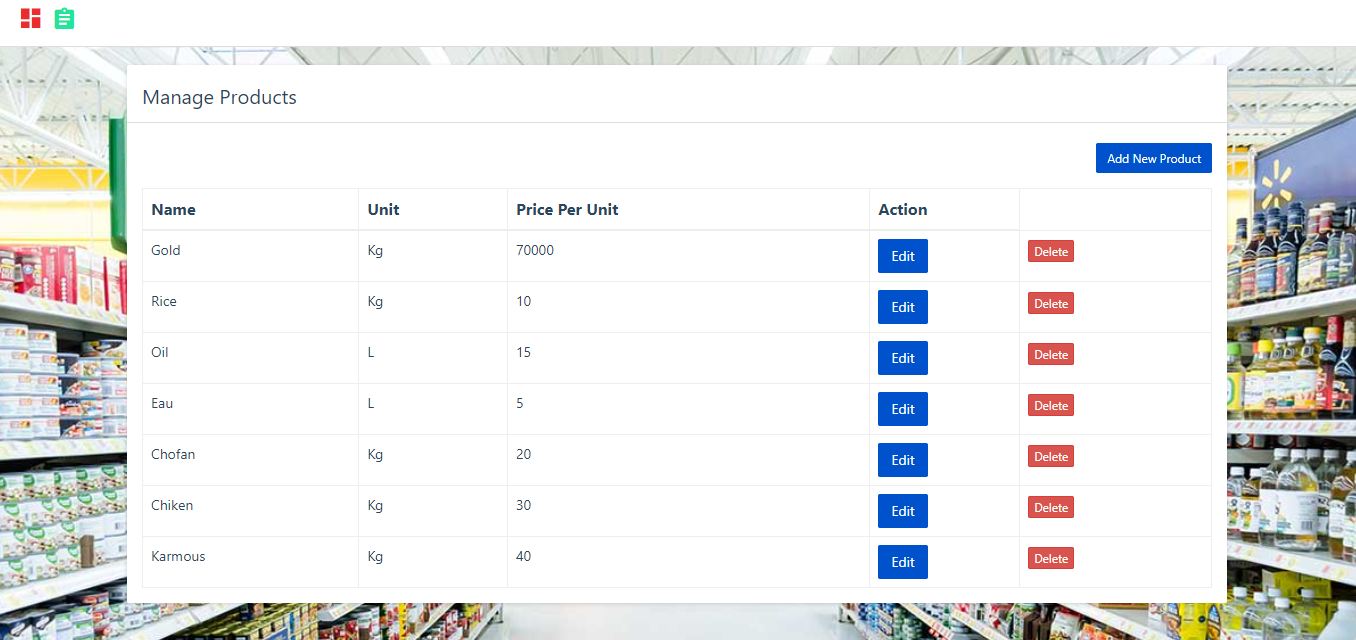
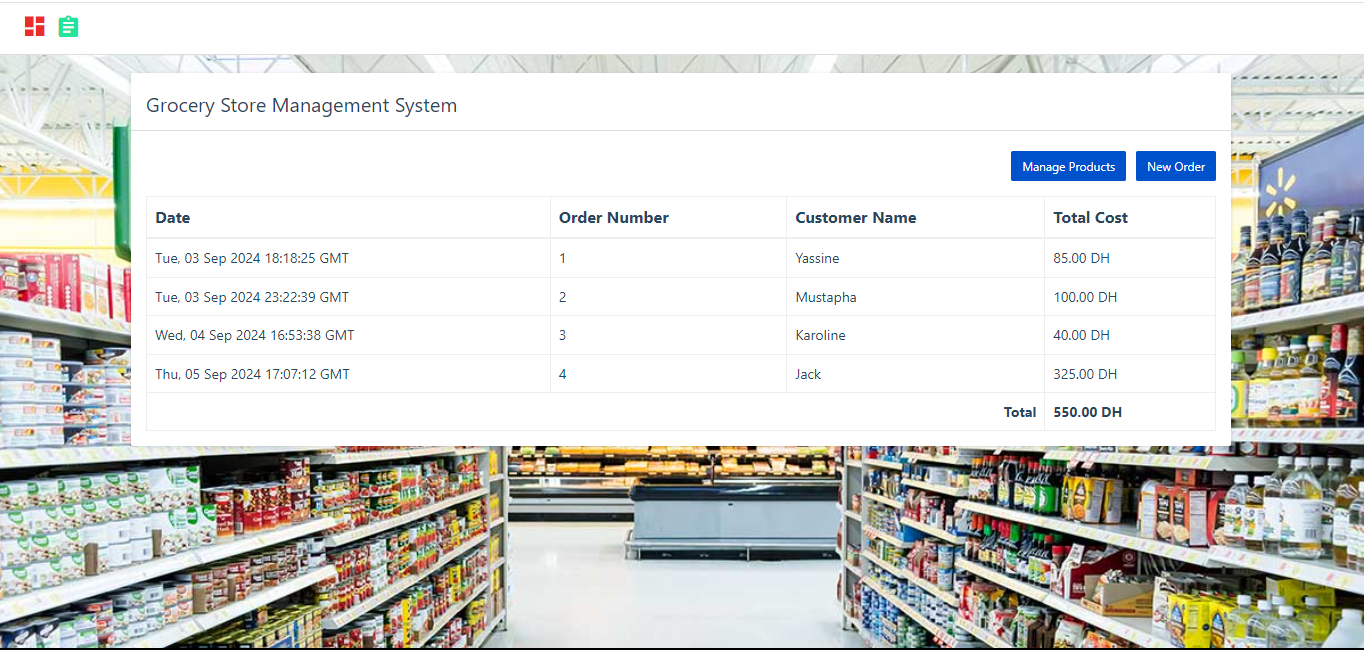
Work on the homepage

diff --git a/UI/Js/custom/dashboard.js b/UI/Js/custom/dashboard.js
@@ -10,9 +10,9 @@ $(function () {
                     '<td>'+ order.datetime +'</td>'+
                     '<td>'+ order.order_id +'</td>'+
                     '<td>'+ order.customer_name +'</td>'+
-                    '<td>'+ order.total.toFixed(2) +' Rs</td></tr>';
+                    '<td>'+ order.total.toFixed(2) +' DH</td></tr>';
             });
-            table += '<tr><td colspan="3" style="text-align: end"><b>Total</b></td><td><b>'+ totalCost.toFixed(2) +' Rs</b></td></tr>';
+            table += '<tr><td colspan="3" style="text-align: end"><b>Total</b></td><td><b>'+ totalCost.toFixed(2) +' DH</b></td></tr>';
             $("table").find('tbody').empty().html(table);
         }
     });

diff --git a/Backend/Orders_dao.py b/Backend/Orders_dao.py
@@ -28,6 +28,20 @@ class Orders_dao:
         self.connection.commit()
         return order_id
 
+    def get_all_orders(self):
+        cursor = self.connection.cursor()
+        query = 'select * from orders'
+        cursor.execute(query)
+        response = []
+        for (order_id,customer_name,datetime,total) in cursor:
+            response.append({
+                'order_id':order_id,
+                'customer_name':customer_name,
+                'datetime':datetime,
+                'total':total
+
+            })
+        return response    
 
 
 

diff --git a/Backend/server.py b/Backend/server.py
@@ -77,7 +77,12 @@ def insertOrder():
     response.headers.add('Access-Control-Allow-Origin','*')
     return response
 
-
+@app.route('/getAllOrders',methods = ['GET'])
+def Get_Orders():
+    Order = Orders_dao.Orders_dao()
+    response = jsonify(Order.get_all_orders())
+    response.headers.add('Access-Control-Allow-Origin','*')
+    return response
 
 if __name__ == "__main__":
     print("Starting Python Flask Server for store-management system")
